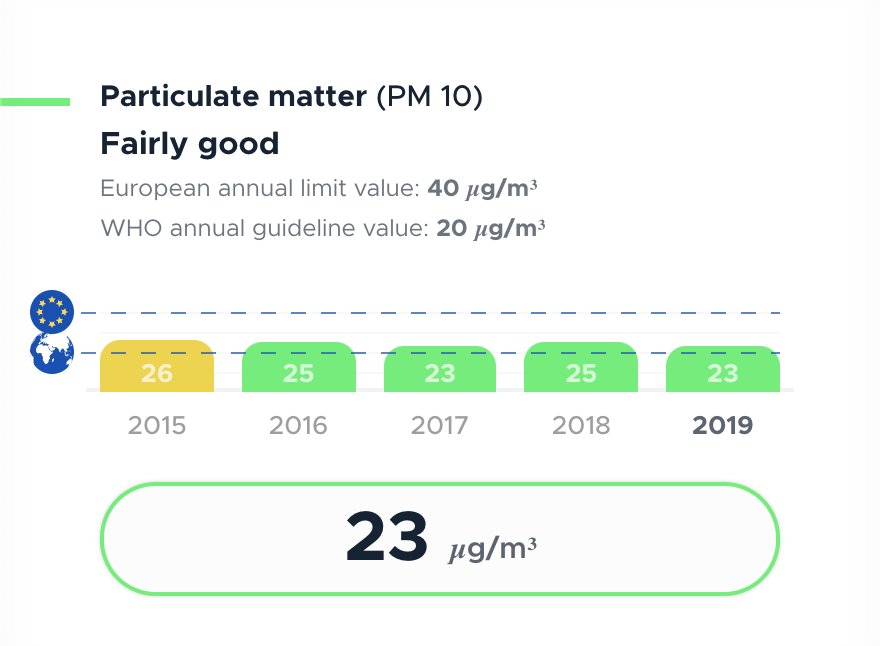
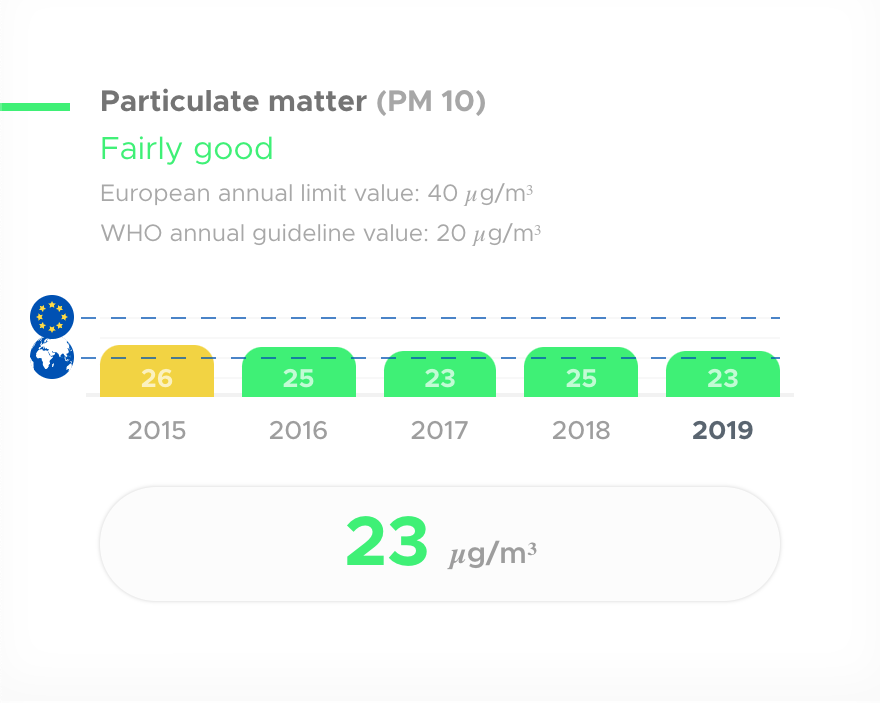
add screenshots onboarding hc & default mode

diff --git a/src/app/v2/screens/onboarding-screen/onboarding-screen.component.html b/src/app/v2/screens/onboarding-screen/onboarding-screen.component.html
@@ -53,7 +53,8 @@
                     <h1>Belair</h1>
                     <p [innerHTML]="'v2.screens.onboarding.aq-info' | translate"></p>
                 </div>
-                <img class="onboarding-screenshot" src="{{ 'v2.screens.onboarding.details-card-uri-hc' | translate }}" alt="">
+                <img class="onboarding-screenshot default" src="{{ 'v2.screens.onboarding.details-card-uri' | translate }}" alt="">
+                <img class="onboarding-screenshot dark" src="{{ 'v2.screens.onboarding.details-card-uri-hc' | translate }}" alt="">
             </div>
         </ion-slide>
 
@@ -64,7 +65,8 @@
                     <p [innerHTML]="'v2.screens.onboarding.aq-long-term' | translate"></p>
                 </div>
 
-                <img class="onboarding-screenshot" src="{{ 'v2.screens.onboarding.stats-card-uri-hc' | translate }}" alt="">
+                <img class="onboarding-screenshot default" src="{{ 'v2.screens.onboarding.stats-card-uri' | translate }}" alt="">
+                <img class="onboarding-screenshot dark" src="{{ 'v2.screens.onboarding.stats-card-uri-hc' | translate }}" alt="">
             </div>
         </ion-slide>
 

diff --git a/src/app/v2/screens/onboarding-screen/onboarding-screen.component.hc.scss b/src/app/v2/screens/onboarding-screen/onboarding-screen.component.hc.scss
@@ -22,6 +22,14 @@
           }
         }
       }
+      img {
+        &.dark {
+          display: block;
+        }
+        &.default {
+          display: none;
+        }
+      }
     }
   }
 }

diff --git a/src/app/v2/screens/onboarding-screen/onboarding-screen.component.scss b/src/app/v2/screens/onboarding-screen/onboarding-screen.component.scss
@@ -24,6 +24,9 @@
   }
   img {
     margin: 0 !important;
+    &.dark {
+      display: none;
+    }
   }
   .index-wheel {
     max-width: 60%;
